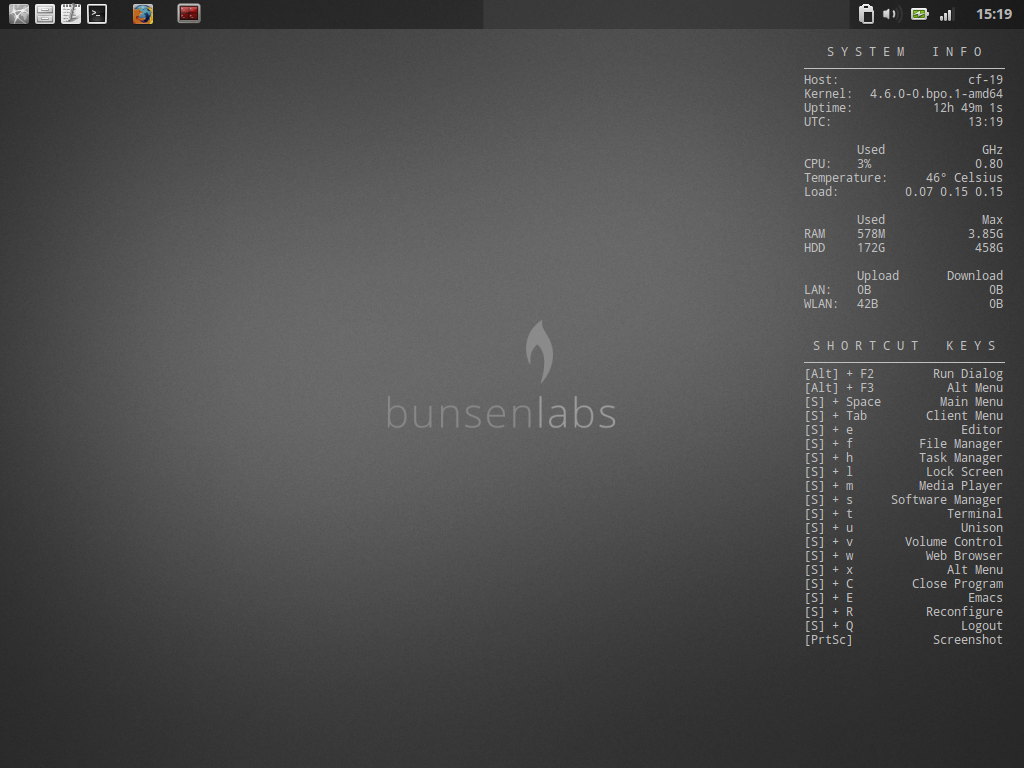
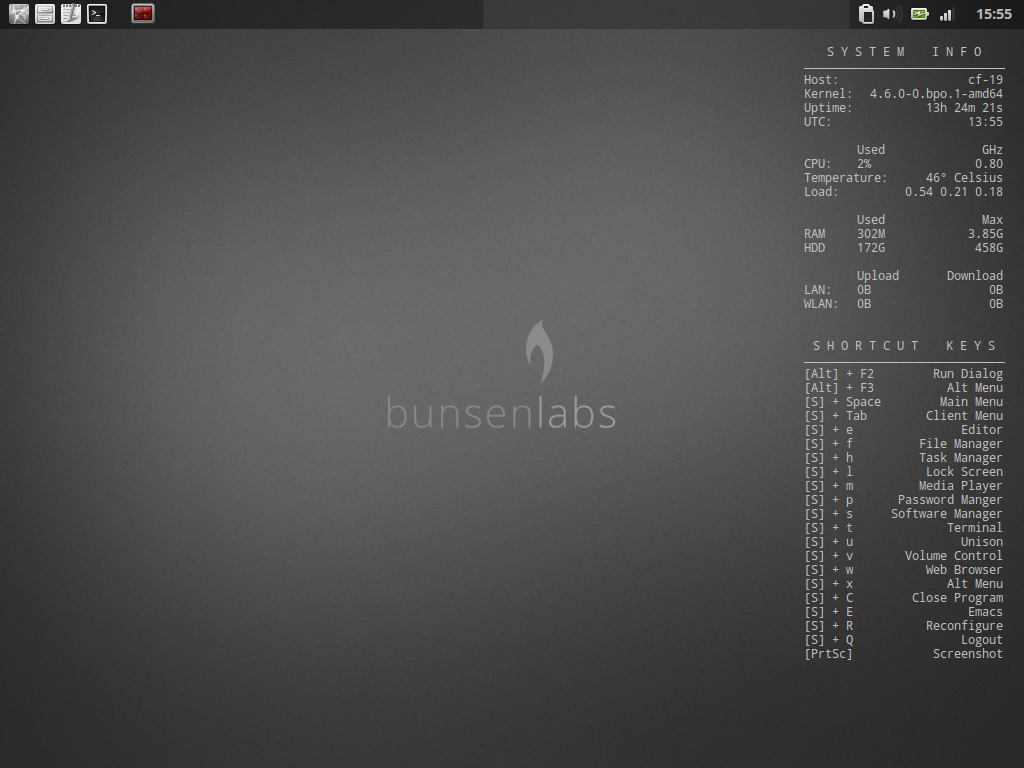
Hinzufügen des Password Managers

diff --git a/README.md b/README.md
@@ -17,6 +17,8 @@ Dateien:
 * [S]+X für das Alt-Menü (dmenu) auf
 * [S]+W startet Firefox im Firejail
 * [S]+U startet die Unison-Synchronisation
+* [S]+S startet den Software Manager
+* [S]+P startet den Password Manager
 
 Bildschirmfotos
 ---------------
